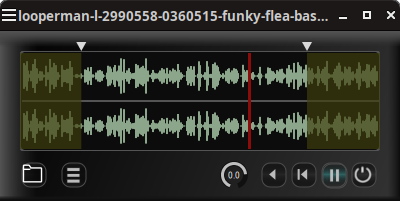
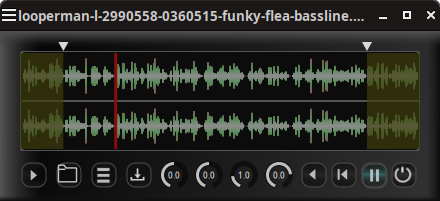
Implement background process thread

diff --git a/alooper/xui.h b/alooper/xui.h
@@ -122,6 +122,7 @@ public:
     Widget_t *w;
     ParallelThread pa;
     ParallelThread pl;
+    ParallelThread pr;
     AudioFile af;
     Varispeed vs;
     
@@ -129,11 +130,19 @@ public:
     uint32_t position;
     uint32_t loopPoint_l;
     uint32_t loopPoint_r;
+    uint32_t frameSize;
+
     float gain;
     float timeRatio;
     float pitchScale;
+
+    float* audioBuffer;
+    std::atomic<bool>  getTimeOutTime;
+    std::condition_variable SyncWait;
+
     bool loadNew;
     bool play;
+    bool stop;
     bool ready;
     bool playBackwards;
 
@@ -142,6 +151,7 @@ public:
         position = 0;
         loopPoint_l = 0;
         loopPoint_r = 1000;
+        frameSize = 0;
         playNow = 0;
         gain = std::pow(1e+01, 0.05 * 0.0);
         timeRatio = 1.0;
@@ -150,20 +160,25 @@ public:
         is_loaded = false;
         loadNew = false;
         play = true;
+        stop = false;
         ready = true;
         usePlayList = false;
         forceReload = false;
         playBackwards = false;
+        audioBuffer = nullptr;
         blockWriteToPlayList = false;
         viewPlayList = nullptr;
         stream = nullptr;
         execute.store(true, std::memory_order_release);
+        getTimeOutTime.store(false, std::memory_order_release);
         plist.read_PlayList();
     };
 
     ~AudioLooperUi() {
         pl.stop();
         pa.stop();
+        pr.stop();
+        delete[] audioBuffer;
     };
 
 /****************************************************************
@@ -184,11 +199,13 @@ public:
     
     // receive Sample Rate from audio back-end
     void setJackSampleRate(uint32_t sr) {
-        bool changed = jack_sr != sr        ;
+        bool changed = jack_sr != sr;
         jack_sr = sr;        
         if (changed){
             vs.initialize(sr);
         }
+        audioBuffer = new float[MAX_RUBBERBAND_BUFFER_FRAMES * 2];
+        memset(audioBuffer, 0,MAX_RUBBERBAND_BUFFER_FRAMES * 2 * sizeof(float));
     }
 
     // receive stream object from portaudio to check 
@@ -228,8 +245,7 @@ public:
 ****************************************************************/
 
     // create the main GUI
-    void createGUI(Xputty *app, std::condition_variable *Sync_) {
-        SyncWait =Sync_;
+    void createGUI(Xputty *app) {
         w_top = create_window(app, os_get_root_window(app, IS_WINDOW), 0, 0, 440, 170);
         widget_set_title(w_top, "alooper");
         widget_set_icon_from_png(w_top,LDVAR(alooper_png));
@@ -240,6 +256,7 @@ public:
         w_top->parent_struct = (void*)this;
         w_top->func.dnd_notify_callback = dnd_load_response;
         w_top->func.key_press_callback = key_press;
+        os_set_window_min_size(w_top, 335, 85, 440, 170);
 
         w = create_widget(app, w_top, 0, 0, 440, 170);
         widget_set_icon_from_png(w,LDVAR(alooper_png));
@@ -289,7 +306,7 @@ public:
         add_tooltip(expand, "Show Playlist");
         expand->func.value_changed_callback = button_expand_callback;
 
-        filebutton = add_file_button(w, 60, 130, 30, 30, getenv("HOME") ? getenv("HOME") : "/", "audio");
+        filebutton = add_file_button(w, 55, 130, 30, 30, getenv("HOME") ? getenv("HOME") : "/", "audio");
         filebutton->scale.gravity = SOUTHEAST;
         filebutton->parent_struct = (void*)this;
         widget_get_png(filebutton, LDVAR(dir_png));
@@ -305,7 +322,7 @@ public:
         widget_get_png(lview, LDVAR(menu_png));
         lview->func.value_changed_callback = button_lview_callback;
 
-        saveLoop = add_save_file_button(w, 120, 130, 30, 30, getenv("HOME") ? getenv("HOME") : "/", "audio");
+        saveLoop = add_save_file_button(w, 125, 130, 30, 30, getenv("HOME") ? getenv("HOME") : "/", "audio");
         saveLoop->parent_struct = (void*)this;
         saveLoop->scale.gravity = SOUTHEAST;
         saveLoop->flags |= HAS_TOOLTIP;
@@ -317,7 +334,7 @@ public:
         tuning->parent_struct = (void*)this;
         tuning->scale.gravity = SOUTHWEST;
         tuning->flags |= HAS_TOOLTIP;
-        add_tooltip(tuning, "Pitch tuning");
+        add_tooltip(tuning, "Pitch shifting");
         set_adjustment(tuning->adj, 0.0, 0.0, -12, 12, 1.0, CL_CONTINUOS);
         tuning->func.expose_callback = draw_knob;
         tuning->func.value_changed_callback = tuning_callback;
@@ -389,6 +406,9 @@ public:
         pl.start();
         pl.set<AudioLooperUi, &AudioLooperUi::loadFromPlayList>(this);
 
+        pr.start();
+        pr.setPriority(25,1);
+        //pr.setTimeOut(120);
     }
 
 private:
@@ -425,7 +445,6 @@ private:
 
     PaStream* stream;
 
-    std::condition_variable *SyncWait;
     std::mutex WMutex;
 
     uint32_t playNow;
@@ -465,30 +484,40 @@ private:
         loadPlayList->parent_struct = (void*)this;
         widget_get_png(loadPlayList, LDVAR(load__png));
         loadPlayList->scale.gravity = SOUTHEAST;
+        loadPlayList->flags |= HAS_TOOLTIP;
+        add_tooltip(loadPlayList, "Load Playlist");
         loadPlayList->func.value_changed_callback = load_up_callback;
 
         savePlayList = add_button(viewPlayList, "", 50, 300, 30, 30);
         savePlayList->parent_struct = (void*)this;
         widget_get_png(savePlayList, LDVAR(save__png));
         savePlayList->scale.gravity = SOUTHEAST;
+        savePlayList->flags |= HAS_TOOLTIP;
+        add_tooltip(savePlayList, "Save Playlist");
         savePlayList->func.value_changed_callback = save_callback;
 
         upEntry = add_button(viewPlayList, "", 360, 300, 30, 30);
         upEntry->parent_struct = (void*)this;
         widget_get_png(upEntry, LDVAR(up_png));
         upEntry->scale.gravity = SOUTHWEST;
+        upEntry->flags |= HAS_TOOLTIP;
+        add_tooltip(upEntry, "Move selected file up");
         upEntry->func.value_changed_callback = up_entry_callback;
 
         downEntry = add_button(viewPlayList, "", 390, 300, 30, 30);
         downEntry->parent_struct = (void*)this;
         widget_get_png(downEntry, LDVAR(down_png));
         downEntry->scale.gravity = SOUTHWEST;
+        downEntry->flags |= HAS_TOOLTIP;
+        add_tooltip(downEntry, "Move selected file down");
         downEntry->func.value_changed_callback = down_entry_callback;
 
         deleteEntry = add_button(viewPlayList, "", 330, 300, 30, 30);
         deleteEntry->parent_struct = (void*)this;
         widget_get_png(deleteEntry, LDVAR(quit_png));
         deleteEntry->scale.gravity = SOUTHWEST;
+        deleteEntry->flags |= HAS_TOOLTIP;
+        add_tooltip(deleteEntry, "Remove selected file");
         deleteEntry->func.value_changed_callback = remove_entry_callback;
 
         LoadMenu = create_menu(loadPlayList,25);
@@ -839,7 +868,7 @@ private:
 
         if (Pa_IsStreamActive(stream)) {
             std::unique_lock<std::mutex> lk(WMutex);
-            SyncWait->wait_for(lk, std::chrono::milliseconds(60));
+            SyncWait.wait_for(lk, std::chrono::milliseconds(60));
         }
 
         ready = false;
@@ -861,7 +890,7 @@ private:
             position = 0;
             if (Pa_IsStreamActive(stream)) {
                 std::unique_lock<std::mutex> lk(WMutex);
-                SyncWait->wait_for(lk, std::chrono::milliseconds(60));
+                SyncWait.wait_for(lk, std::chrono::milliseconds(60));
             }
             ready = false;
             delete[] af.samples;
@@ -972,6 +1001,10 @@ private:
         XFlush(w->app->dpy);
         XUnlockDisplay(w->app->dpy);
         #endif
+        if (getTimeOutTime.load(std::memory_order_acquire)) {
+            pr.setTimeOut(max(100,static_cast<int>((frameSize/(jack_sr*0.000001))*0.1)));
+            getTimeOutTime.store(false, std::memory_order_release);
+        }
         wview->func.adj_callback = transparent_draw;
     }
 

diff --git a/alooper/xpa.c b/alooper/xpa.c
@@ -23,19 +23,13 @@
 
 AudioLooperUi ui;
 
-// the portaudio server process callback
-static int process(const void* inputBuffer, void* outputBuffer,
-    unsigned long frames, const PaStreamCallbackTimeInfo* timeInfo,
-    PaStreamCallbackFlags statusFlags, void* data) {
-
-    float* out = static_cast<float*>(outputBuffer);
-    static std::condition_variable *Sync = static_cast<std::condition_variable*>(data);
+// process audio in background thread
+static void processBuffer() {
+    float* out = ui.audioBuffer;
+    uint32_t frames = ui.frameSize;
     static float fRec0[2] = {0};
     static float ramp = 0.0;
     static const float ramp_step = 256.0;
-    (void) timeInfo;
-    (void) statusFlags;
-
     float *const *rubberband_input_buffers = ui.vs.rubberband_input_buffers;
     float *const *rubberband_output_buffers = ui.vs.rubberband_output_buffers;
 
@@ -45,7 +39,7 @@ static int process(const void* inputBuffer, void* outputBuffer,
     uint32_t source_channel_count = min(ui.af.channels,ui.vs.rb->getChannelCount());
     uint32_t ouput_channel_count = 2;
         
-    if (( ui.af.samplesize && ui.af.samples != nullptr) && ui.play && ui.ready) {
+    if (( ui.af.samplesize && ui.af.samples != nullptr) && !ui.stop && ui.ready) {
         float fSlow0 = 0.0010000000000000009 * ui.gain;
         uint32_t needed = frames;
         while (needed>0){
@@ -65,6 +59,9 @@ static int process(const void* inputBuffer, void* outputBuffer,
                 int process_samples = min(frames, MAX_RUBBERBAND_BUFFER_FRAMES);
                 for (int i = 0 ; i < process_samples ;i++){
                     ui.playBackwards ? --ui.position : ++ui.position;
+                    // check if play position excite play range
+                    // if so reset play position and trigger check if new file
+                    // should be loaded from play list
                     if (ui.playBackwards && ui.position <= ui.loopPoint_l) {
                         ui.position = ui.loopPoint_r;
                         ui.loadFile();
@@ -72,11 +69,12 @@ static int process(const void* inputBuffer, void* outputBuffer,
                         ui.position = ui.loopPoint_l;
                         ui.loadFile();
                     }
+                    // copy (de-interleaved)source to rubberband buffers
                     for (uint32_t c = 0 ; c < source_channel_count ;c++){
-                        rubberband_input_buffers[c][i] = ui.af.samples[ (ui.position) * ui.af.channels + c];
+                        rubberband_input_buffers[c][i] = ui.af.samples[(ui.position * ui.af.channels) + c];
                     }
                     // cross fade over loop points
-                    // ramp up on loop begin point
+                    // ramp up on loop begin point + ramp_step
                     if (ui.playBackwards ?
                             ui.position > ui.loopPoint_r - ramp_step :
                             ui.position < ui.loopPoint_l + ramp_step) {
@@ -84,7 +82,7 @@ static int process(const void* inputBuffer, void* outputBuffer,
                         const float fade = max(0.0,ramp) /ramp_step ;
                         rubberband_input_buffers[0][i] *= fade;
                         rubberband_input_buffers[1][i] *= fade;
-                    // ramp down on loop end point
+                    // ramp down on loop end point - ramp_step
                     } else if (ui.playBackwards ?
                             ui.position < ui.loopPoint_l + ramp_step :
                             ui.position > ui.loopPoint_r - ramp_step) {
@@ -94,6 +92,7 @@ static int process(const void* inputBuffer, void* outputBuffer,
                         rubberband_input_buffers[1][i] *= fade;
                     }
                 }
+                // process source with rubberband stretcher
                 ui.vs.rb->process( rubberband_input_buffers,process_samples,false);
             }
         }
@@ -101,7 +100,62 @@ static int process(const void* inputBuffer, void* outputBuffer,
         ui.vs.rb->reset();
         memset(out, 0.0, (uint32_t)frames * 2 * sizeof(float));
     }
-    Sync->notify_one();
+    ui.SyncWait.notify_one();
+}
+
+
+// the portaudio server process callback
+static int process(const void* inputBuffer, void* outputBuffer,
+    unsigned long frames, const PaStreamCallbackTimeInfo* timeInfo,
+    PaStreamCallbackFlags statusFlags, void* data) {
+
+    float* out = static_cast<float*>(outputBuffer);
+    (void) timeInfo;
+    (void) statusFlags;
+    static const float ramp_step = 2048.0;
+    static float ramp = ramp_step;
+    static bool isDown = false;
+
+    if (ui.frameSize != static_cast<uint32_t>(frames)) {
+        ui.frameSize = static_cast<uint32_t>(frames);
+        ui.getTimeOutTime.store(true, std::memory_order_release);
+    }
+
+    // get data from previous process and copy it to output
+    ui.pr.processWait();
+    memcpy(out, ui.audioBuffer, (uint32_t)frames * 2 * sizeof(float));
+
+    // fade in/out when start/stop the playback
+    if (!ui.play && !ui.stop) {
+        for(uint32_t i = 0; i < (uint32_t)frames*2; i++) {
+            if (ramp > 0.0) {
+                --ramp;
+            } else {
+                ui.stop = true;
+                isDown = true;
+                ramp = ramp_step;
+                uint32_t reset = ui.playBackwards ? 4096 : -4096;
+                ui.position += reset;
+            }
+            const float fade = max(0.0,ramp) /ramp_step ;
+            out[i] *= fade;
+        }
+    } else if (ui.play && isDown) {
+        ui.stop = false;
+        for(uint32_t i = 0; i < (uint32_t)frames*2; i++) {
+            if (ramp < ramp_step) {
+                ++ramp;
+            } else {
+                isDown = false;
+                ramp = 0.0;
+            }
+            const float fade = max(0.0,ramp) /ramp_step ;
+            out[i] *= fade;
+        }
+    }
+
+    // process data from current process in background
+    if (ui.pr.getProcess()) ui.pr.runProcess();
 
     return 0;
 }
@@ -138,10 +192,9 @@ int main(int argc, char *argv[]){
     #endif
 
     Xputty app;
-    std::condition_variable Sync;
 
     main_init(&app);
-    ui.createGUI(&app, &Sync);
+    ui.createGUI(&app);
 
     #if defined(__linux__) || defined(__FreeBSD__) || \
         defined(__NetBSD__) || defined(__OpenBSD__)
@@ -152,7 +205,7 @@ int main(int argc, char *argv[]){
     #endif
 
     XPa xpa ("alooper");
-    if(!xpa.openStream(0, 2, &process, (void*) &Sync)) ui.onExit();
+    if(!xpa.openStream(0, 2, &process, nullptr)) ui.onExit();
 
     ui.setJackSampleRate(xpa.getSampleRate());
 
@@ -167,6 +220,8 @@ int main(int argc, char *argv[]){
     #endif
         ui.dialog_response(ui.w, (void*) &argv[1]);
     }
+
+    ui.pr.set<processBuffer>();
 
     main_run(&app);
 

diff --git a/alooper/vs.h b/alooper/vs.h
@@ -15,7 +15,7 @@
 #ifndef VS_H
 #define VS_H
 
-#define MAX_RUBBERBAND_CHANNELS ((uint32_t)8)
+#define MAX_RUBBERBAND_CHANNELS ((uint32_t)2)
 #define MAX_RUBBERBAND_BUFFER_FRAMES ((uint32_t)4096)
 
 class Varispeed {
